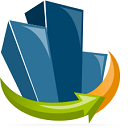
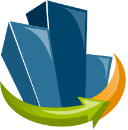
icone e nome do projeto

diff --git a/www/index.html b/www/index.html
@@ -34,7 +34,7 @@
             <h1>Kasterweb</h1>
             <div id="deviceready" class="blink">
                 <p class="event listening">Funcionando</p>
-                <p class="event received">Device is Ready</p>
+                <p class="event received">Dispositivo Pronto</p>
             </div>
         </div>
         <script type="text/javascript" src="cordova.js"></script>
